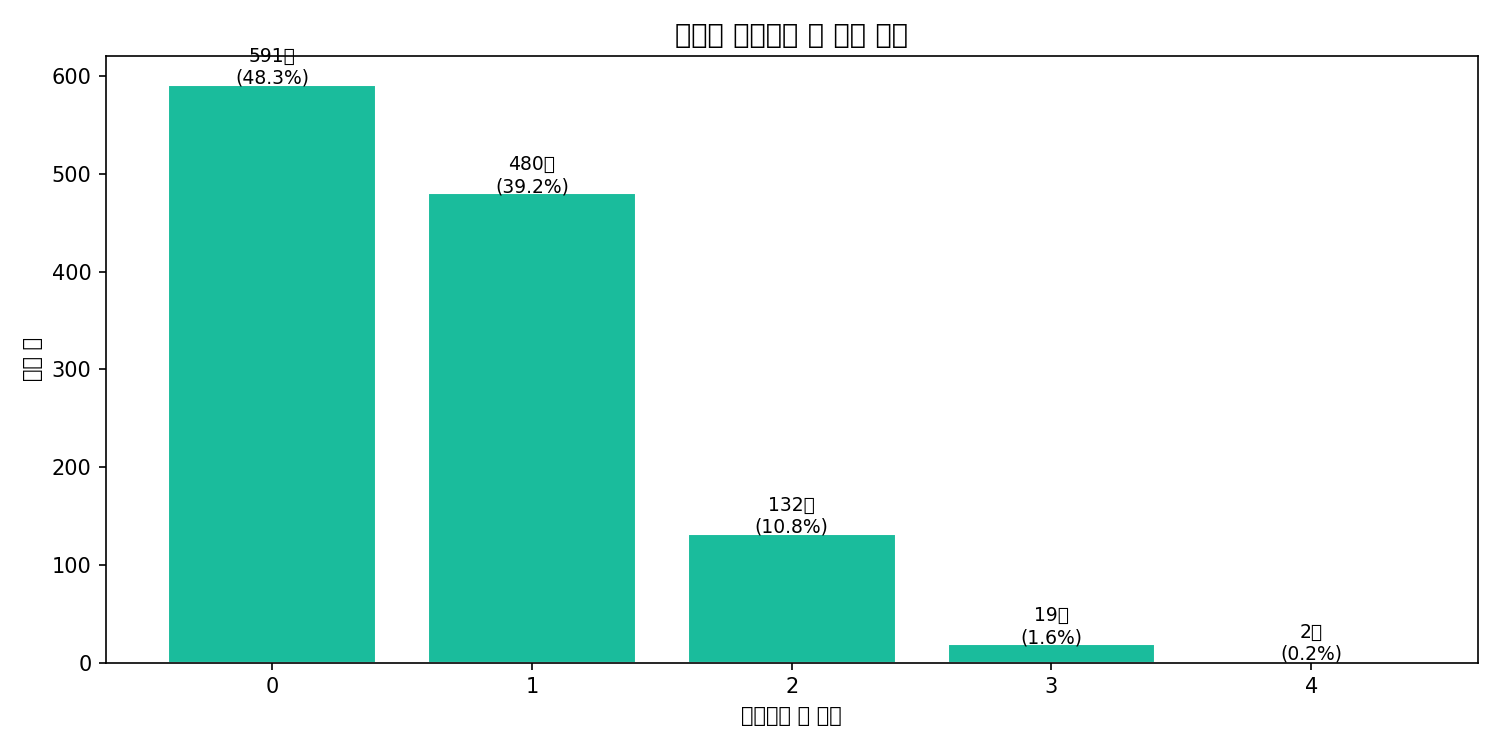
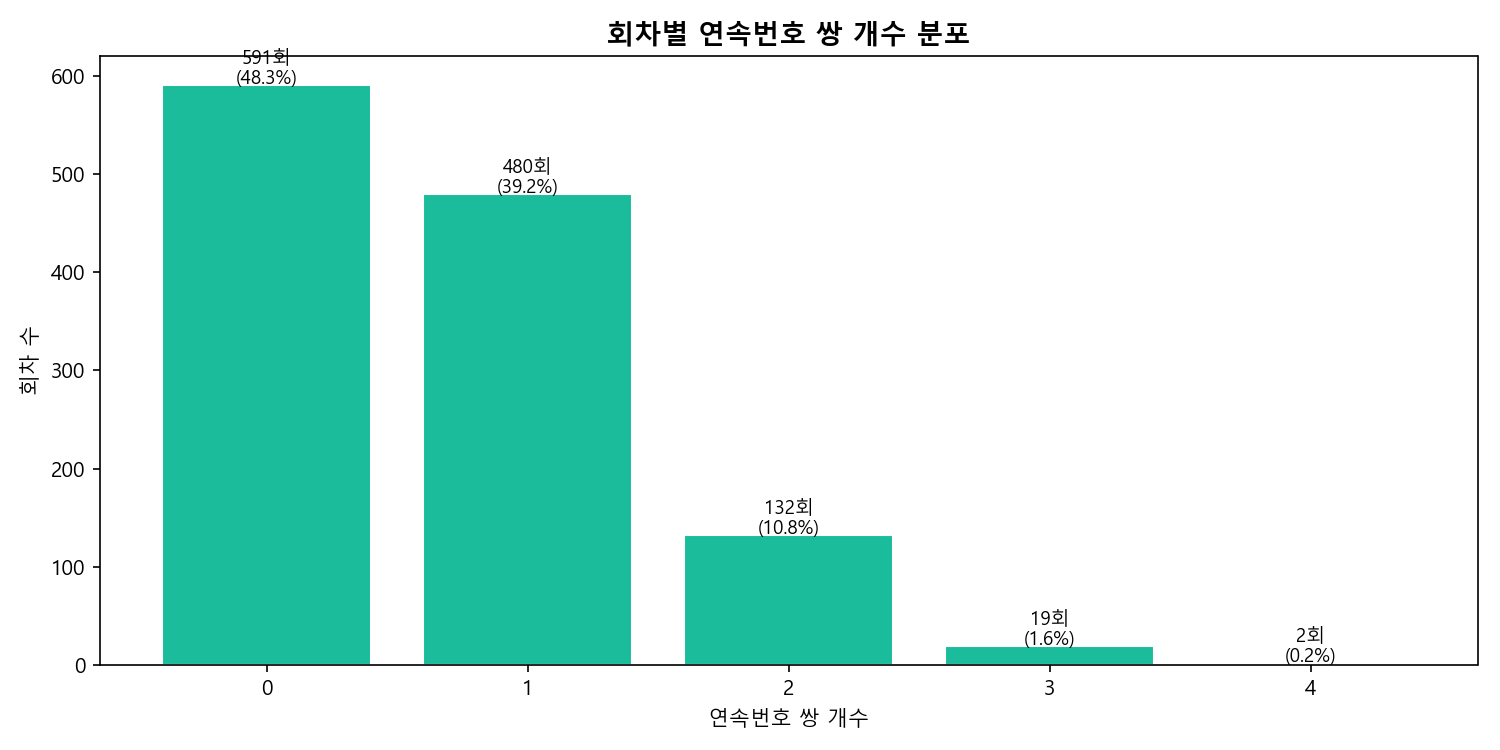
fix: models.py matplotlib Agg 백엔드 추가, ML 분석 그래프 생성 완료

diff --git a/src/models.py b/src/models.py
@@ -21,6 +21,9 @@ from sklearn.decomposition import PCA
 from mlxtend.frequent_patterns import apriori, association_rules
 from mlxtend.preprocessing import TransactionEncoder
 
+import matplotlib
+matplotlib.use("Agg")
+
 plt.rcParams["font.family"] = "Malgun Gothic"
 plt.rcParams["axes.unicode_minus"] = False
 
